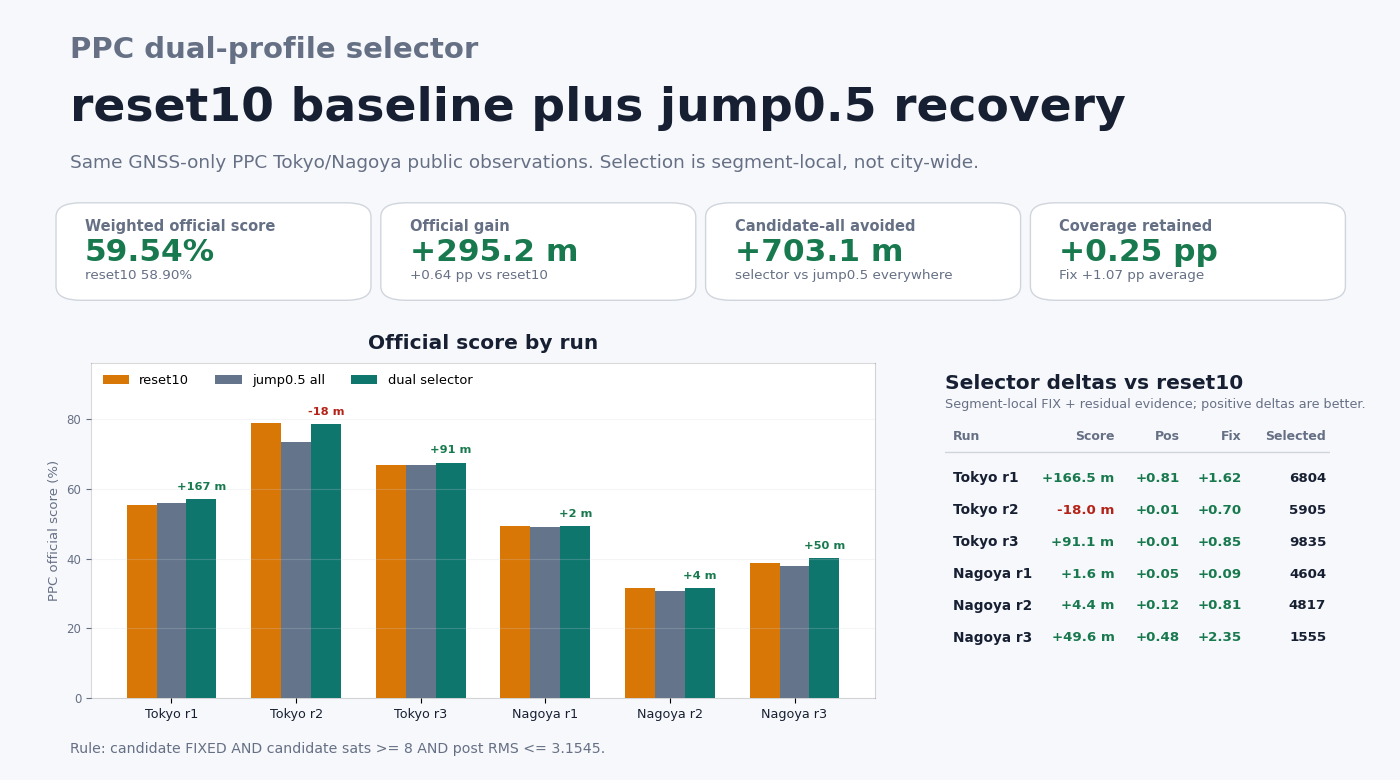
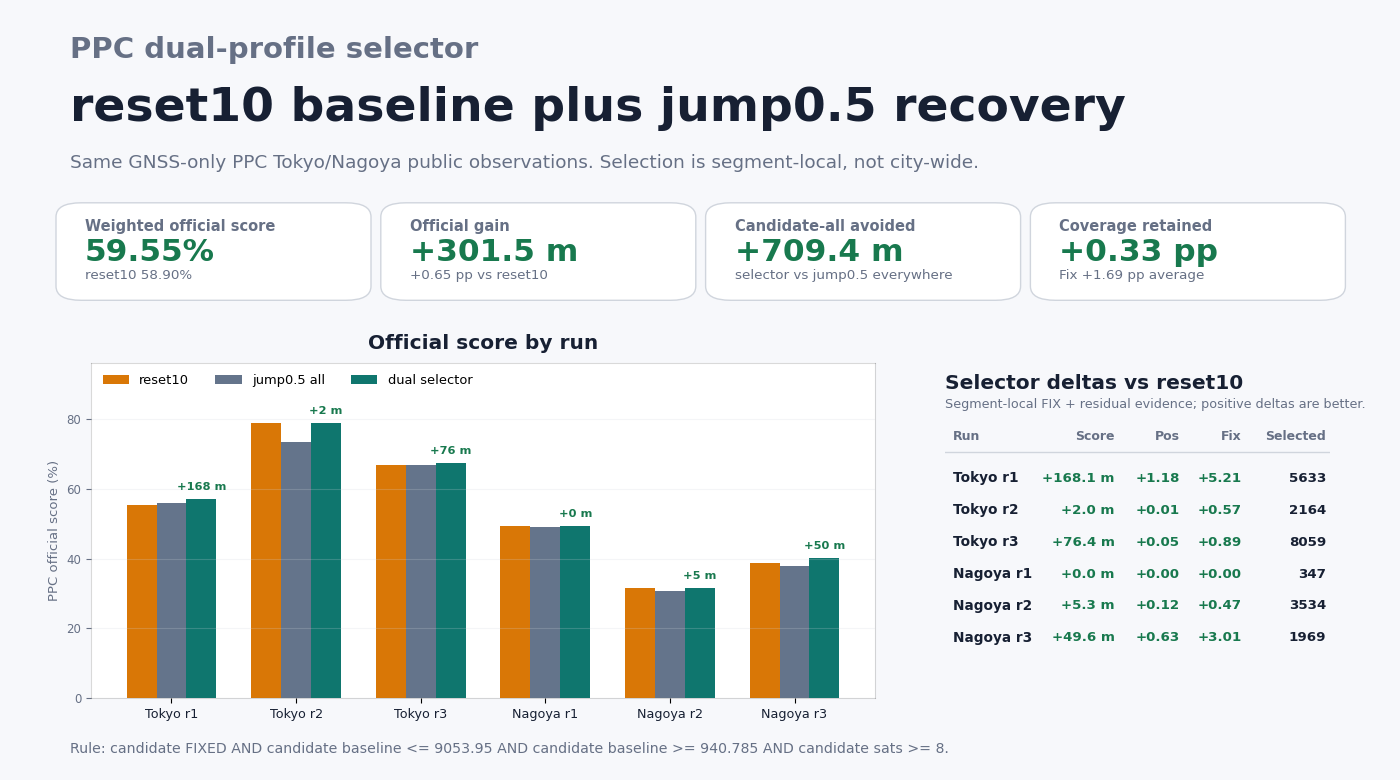
Add PPC baseline-band selector refinement

diff --git a/scripts/analyze_ppc_segment_selector_sweep.py b/scripts/analyze_ppc_segment_selector_sweep.py
@@ -20,6 +20,7 @@ CATEGORICAL_FEATURES = (
 NUMERIC_FEATURES = (
     "candidate_ratio",
     "candidate_num_satellites",
+    "candidate_baseline_m",
     "candidate_rtk_update_observations",
     "candidate_rtk_update_suppressed_outliers",
     "candidate_rtk_update_prefit_residual_rms_m",
@@ -28,6 +29,7 @@ NUMERIC_FEATURES = (
     "candidate_rtk_update_post_suppression_residual_max_m",
     "baseline_ratio",
     "baseline_num_satellites",
+    "baseline_baseline_m",
 )
 BASE_NUMERIC_FIELDS = (
     "segment_distance_m",
@@ -123,9 +125,9 @@ def parse_args() -> argparse.Namespace:
     parser.add_argument(
         "--max-numeric-conditions",
         type=int,
-        choices=(1, 2),
+        choices=(1, 2, 3),
         default=1,
-        help="Maximum numeric conditions per rule. Use 2 for one-step rule refinement (default: 1).",
+        help="Maximum numeric conditions per rule. Use 2 or 3 for beam refinement (default: 1).",
     )
     parser.add_argument(
         "--numeric-refinement-beam",
@@ -259,11 +261,21 @@ def dataset_gain_loss(rows: list[dict[str, object]]) -> tuple[float, float]:
 
 
 def normalize_rule(rule: RuleSpec) -> RuleSpec:
+    numeric_by_bound: dict[tuple[str, str], NumericCondition] = {}
+    for condition in rule.numeric:
+        key = (condition.feature, condition.operator)
+        existing = numeric_by_bound.get(key)
+        if existing is None:
+            numeric_by_bound[key] = condition
+        elif condition.operator == "<=" and condition.threshold < existing.threshold:
+            numeric_by_bound[key] = condition
+        elif condition.operator == ">=" and condition.threshold > existing.threshold:
+            numeric_by_bound[key] = condition
     return RuleSpec(
         categorical=tuple(sorted(rule.categorical, key=lambda item: (item.feature, item.value))),
         numeric=tuple(
             sorted(
-                rule.numeric,
+                numeric_by_bound.values(),
                 key=lambda item: (item.feature, item.operator, round(item.threshold, 9)),
             )
         ),
@@ -319,31 +331,42 @@ def generate_rules(
                 continue
             rules.append(rule)
             seen.add(rule.key())
-        if max_numeric_conditions < 2:
-            continue
+        level_rules = one_numeric_rules
+        for _ in range(2, max_numeric_conditions + 1):
+            scored_level: list[tuple[dict[str, object], RuleSpec]] = []
+            for rule in level_rules:
+                scored_level.append((score_rule(base_rows, rule, include_by_run=False), rule))
+            scored_level.sort(key=lambda item: rule_rank_key(item[0]), reverse=True)
 
-        scored_one_numeric: list[tuple[dict[str, object], RuleSpec]] = []
-        for rule in one_numeric_rules:
-            scored_one_numeric.append((score_rule(base_rows, rule, include_by_run=False), rule))
-        scored_one_numeric.sort(key=lambda item: rule_rank_key(item[0]), reverse=True)
-        for _, seed in scored_one_numeric[: max(0, numeric_refinement_beam)]:
-            seed_rows = rows_matching(base_rows, seed)
-            if not seed_rows:
-                continue
-            existing = set(seed.numeric)
-            for extra in numeric_conditions(seed_rows, max_thresholds):
-                if extra in existing:
+            next_level_rules: list[RuleSpec] = []
+            next_level_seen: set[
+                tuple[tuple[tuple[str, str], ...], tuple[tuple[str, str, float], ...]]
+            ] = set()
+            for _, seed in scored_level[: max(0, numeric_refinement_beam)]:
+                seed_rows = rows_matching(base_rows, seed)
+                if not seed_rows:
                     continue
-                rule = normalize_rule(
-                    RuleSpec(
-                        categorical=seed.categorical,
-                        numeric=(*seed.numeric, extra),
+                existing = set(seed.numeric)
+                for extra in numeric_conditions(seed_rows, max_thresholds):
+                    if extra in existing:
+                        continue
+                    rule = normalize_rule(
+                        RuleSpec(
+                            categorical=seed.categorical,
+                            numeric=(*seed.numeric, extra),
+                        )
                     )
-                )
-                if rule.key() in seen:
-                    continue
-                rules.append(rule)
-                seen.add(rule.key())
+                    if rule.key() in next_level_seen:
+                        continue
+                    next_level_rules.append(rule)
+                    next_level_seen.add(rule.key())
+                    if rule.key() in seen:
+                        continue
+                    rules.append(rule)
+                    seen.add(rule.key())
+            level_rules = next_level_rules
+            if not level_rules:
+                break
     return rules
 
 

diff --git a/tests/test_benchmark_scripts.py b/tests/test_benchmark_scripts.py
@@ -927,6 +927,7 @@ class PPCSegmentSelectorSweepTest(unittest.TestCase):
         candidate_rms_m: float,
         candidate_ratio: float = 10.0,
         candidate_num_satellites: float = 12.0,
+        candidate_baseline_m: float = 1000.0,
     ) -> dict[str, object]:
         return {
             "run_label": run_label,
@@ -937,6 +938,8 @@ class PPCSegmentSelectorSweepTest(unittest.TestCase):
             "candidate_status_name": candidate_status,
             "candidate_ratio": candidate_ratio,
             "candidate_num_satellites": candidate_num_satellites,
+            "candidate_baseline_m": candidate_baseline_m,
+            "baseline_baseline_m": candidate_baseline_m,
             "candidate_rtk_update_observations": 16.0,
             "candidate_rtk_update_suppressed_outliers": 0.0,
             "candidate_rtk_update_prefit_residual_rms_m": candidate_rms_m,
@@ -1029,6 +1032,27 @@ class PPCSegmentSelectorSweepTest(unittest.TestCase):
         best_rule = payload["top_rules"][0]
         self.assertEqual(best_rule["selected_score_delta_distance_m"], 25.0)
         self.assertIn("residual_rms_m <= 0.8", best_rule["rule"])
+
+    def test_selector_sweep_can_refine_with_three_numeric_conditions(self) -> None:
+        rows = [
+            self.selector_row("tokyo_run1", 30.0, 30.0, "FIXED", "FIXED", 0.4, 8.0, 12.0, 1000.0),
+            self.selector_row("tokyo_run1", -10.0, 10.0, "FIXED", "FIXED", 0.4, 8.0, 6.0, 1000.0),
+            self.selector_row("tokyo_run1", -8.0, 8.0, "FIXED", "FIXED", 5.0, 8.0, 12.0, 1000.0),
+            self.selector_row("tokyo_run1", -7.0, 7.0, "FIXED", "FIXED", 0.4, 8.0, 12.0, 100.0),
+        ]
+
+        payload = ppc_segment_selector_sweep.build_payload(
+            rows,
+            top_rules=8,
+            max_thresholds=16,
+            max_numeric_conditions=3,
+        )
+
+        best_rule = payload["top_rules"][0]
+        self.assertEqual(best_rule["selected_score_delta_distance_m"], 30.0)
+        self.assertIn("candidate_baseline_m", best_rule["rule"])
+        self.assertIn("candidate_num_satellites", best_rule["rule"])
+        self.assertIn("residual_rms_m", best_rule["rule"])
 
 
 class PPCDualProfileSelectorTest(unittest.TestCase):
@@ -1154,8 +1178,9 @@ class PPCDualProfileSelectorMatrixTest(unittest.TestCase):
         return {
             "rule": (
                 "candidate_status_name == FIXED AND "
-                "candidate_num_satellites >= 8 AND "
-                "candidate_rtk_update_post_suppression_residual_rms_m <= 3.1545"
+                "candidate_baseline_m <= 9053.95 AND "
+                "candidate_baseline_m >= 940.785 AND "
+                "candidate_num_satellites >= 8"
             ),
             "baseline": metrics(baseline_score_m, 80.0, 60.0),
             "candidate": metrics(candidate_score_m, 81.0, 61.0),

diff --git a/scripts/apply_ppc_dual_profile_selector.py b/scripts/apply_ppc_dual_profile_selector.py
@@ -59,8 +59,8 @@ def parse_args() -> argparse.Namespace:
         default=None,
         help=(
             "Selector rule, e.g. `candidate_status_name == FIXED AND "
-            "candidate_num_satellites >= 8 AND "
-            "candidate_rtk_update_post_suppression_residual_rms_m <= 3.1545`."
+            "candidate_baseline_m <= 9053.95 AND candidate_baseline_m >= 940.785 AND "
+            "candidate_num_satellites >= 8`."
         ),
     )
     parser.add_argument(

diff --git a/scripts/analyze_ppc_dual_profile_selector_matrix.py b/scripts/analyze_ppc_dual_profile_selector_matrix.py
@@ -511,6 +511,7 @@ def render_png(payload: dict[str, object], output: Path) -> None:
         "post RMS",
     )
     rule_text = rule_text.replace("candidate_num_satellites", "candidate sats")
+    rule_text = rule_text.replace("candidate_baseline_m", "candidate baseline")
     ax.text(0.05, 0.035, f"Rule: {rule_text}.", fontsize=10.2, color=MUTED)
 
     output.parent.mkdir(parents=True, exist_ok=True)

diff --git a/docs/benchmarks.md b/docs/benchmarks.md
@@ -195,17 +195,17 @@ run1 `jump0.5` gains **177.8 m** and loses **133.6 m**, while Tokyo run2 gains
 only **7.1 m** and loses **384.3 m**. Across all six runs, candidate-all is
 **-407.9 m** versus reset10, so the selector must be segment-local.
 Sweeping segment-local rules over all six `jump0.5` probes and allowing local
-numeric-threshold refinement flips that global loss to **+295.2 m**. The refined
-rule requires candidate status FIXED, `candidate_num_satellites >= 8`, and
-candidate post-suppression residual RMS `<= 3.1545 m`. It keeps **334.3 m** of
-gain, exposes **39.0 m** of loss, reduces Tokyo run2's damage from **-377.2 m**
-to **-18.0 m**, and adds **+91.1 m** on Tokyo run3.
+numeric-threshold refinement flips that global loss to **+301.5 m**. The refined
+rule requires candidate status FIXED, candidate baseline `940.785..9053.95 m`,
+and `candidate_num_satellites >= 8`. It keeps **317.0 m** of gain, exposes
+**15.5 m** of loss, reduces Tokyo run2's damage from **-377.2 m** to **+2.0 m**,
+and keeps every run non-negative.
 Applying the rule with `scripts/apply_ppc_dual_profile_selector.py` writes real
 selected `.pos` outputs and reuses the normal PPC metrics path. Across those
-six probes, weighted official score becomes **59.54%** versus **58.90%** for
-reset10 (**+295.2 m**, **+0.64 pp**) and **58.02%** for candidate-all.
-Positioning remains positive on every run, averaging **+0.25 pp** versus
-reset10, while Fix averages **+1.07 pp**. The matrix aggregation and scorecard
+six probes, weighted official score becomes **59.55%** versus **58.90%** for
+reset10 (**+301.5 m**, **+0.65 pp**) and **58.02%** for candidate-all.
+Positioning remains positive on every run, averaging **+0.33 pp** versus
+reset10, while Fix averages **+1.69 pp**. The matrix aggregation and scorecard
 come from `scripts/analyze_ppc_dual_profile_selector_matrix.py`.
 
 ![PPC dual-profile selector scorecard](ppc_jump0p5_dual_selector_scorecard.png)
@@ -336,9 +336,9 @@ python3 scripts/analyze_ppc_segment_selector_sweep.py \
   --segment-csv nagoya_run1=output/ppc_nagoya_run1_jump0p5_segment_delta.csv \
   --segment-csv nagoya_run2=output/ppc_nagoya_run2_jump0p5_segment_delta.csv \
   --segment-csv nagoya_run3=output/ppc_nagoya_run3_jump0p5_segment_delta.csv \
-  --max-numeric-conditions 2 \
+  --max-numeric-conditions 3 \
   --max-thresholds 64 \
-  --numeric-refinement-beam 24 \
+  --numeric-refinement-beam 12 \
   --numeric-threshold-refinement-beam 32 \
   --summary-json output/ppc_jump0p5_segment_selector_sweep_6run_refined.json \
   --markdown-output output/ppc_jump0p5_segment_selector_sweep_6run_refined.md

diff --git a/README.md b/README.md
@@ -238,18 +238,18 @@ segments into FIX; Tokyo run2 gains only **7.1 m** and loses **384.3 m**, mostly
 candidate-all is **-407.9 m** versus reset10, so the viable selector must be
 segment-local rather than city-local.
 Sweeping all six `jump0.5` probes with local numeric-threshold refinement adds a
-low-satellite false-fix guard to the selector: `candidate_status_name == FIXED`,
-`candidate_num_satellites >= 8`, and candidate post-suppression residual RMS
-`<= 3.1545 m`. It flips the global candidate-all loss to **+295.2 m**, keeps
-**334.3 m** of gain, exposes only **39.0 m** of loss, and cuts Tokyo run2 from
-**-377.2 m** to **-18.0 m** while adding **+91.1 m** on Tokyo run3.
+baseline-length band and low-satellite false-fix guard to the selector:
+`candidate_status_name == FIXED`, candidate baseline `940.785..9053.95 m`, and
+`candidate_num_satellites >= 8`. It flips the global candidate-all loss to
+**+301.5 m**, keeps **317.0 m** of gain, exposes only **15.5 m** of loss, cuts
+Tokyo run2 from **-377.2 m** to **+2.0 m**, and keeps every run non-negative.
 `scripts/apply_ppc_dual_profile_selector.py` applies that rule to actual
 baseline/candidate `.pos` files and writes a selected `.pos` for normal PPC
 re-scoring. On the full six-run matrix, the combined selector moves weighted
-official score **58.90% -> 59.54%** (**+295.2 m**, **+0.64 pp**) versus reset10
-and stays above candidate-all by **703.1 m**. Positioning is not sacrificed:
-the six-run average Positioning delta is **+0.25 pp** and Fix delta is
-**+1.07 pp** versus reset10.
+official score **58.90% -> 59.55%** (**+301.5 m**, **+0.65 pp**) versus reset10
+and stays above candidate-all by **709.4 m**. Positioning is not sacrificed:
+the six-run average Positioning delta is **+0.33 pp** and Fix delta is
+**+1.69 pp** versus reset10.
 `scripts/analyze_ppc_dual_profile_selector_matrix.py` aggregates those selected
 summaries and renders the checked-in scorecard below.
 
@@ -737,9 +737,9 @@ python3 scripts/analyze_ppc_segment_selector_sweep.py \
   --segment-csv nagoya_run1=output/ppc_nagoya_run1_jump0p5_segment_delta.csv \
   --segment-csv nagoya_run2=output/ppc_nagoya_run2_jump0p5_segment_delta.csv \
   --segment-csv nagoya_run3=output/ppc_nagoya_run3_jump0p5_segment_delta.csv \
-  --max-numeric-conditions 2 \
+  --max-numeric-conditions 3 \
   --max-thresholds 64 \
-  --numeric-refinement-beam 24 \
+  --numeric-refinement-beam 12 \
   --numeric-threshold-refinement-beam 32 \
   --summary-json output/ppc_jump0p5_segment_selector_sweep_6run_refined.json \
   --markdown-output output/ppc_jump0p5_segment_selector_sweep_6run_refined.md
